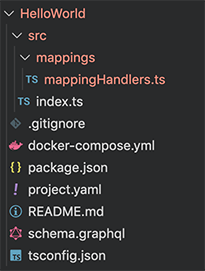
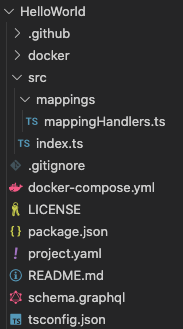
Updates directory structure

Changed region(s): [[0.0273, 0.3542, 0.9016, 1.0], [0.0273, 0.0, 0.8197, 0.3247]]

diff --git a/docs/build/introduction.md b/docs/build/introduction.md
@@ -16,17 +16,21 @@ The following map provides an overview of the directory structure of a SubQuery 
 
 ```
 - project-name
+  L .github
+  L docker
+  L src
+    L mappings
+      L mappingHandlers.ts
+    L index.ts
+  L .gitignore
+  L docker-compose.yml
+  L LICENSE
   L package.json
   L project.yaml
   L README.md
   L schema.graphql
   L tsconfig.json
-  L docker-compose.yml
-  L src
-    L index.ts
-    L mappings
-      L mappingHandlers.ts
-  L .gitignore
+  
 ```
 
 For example:
